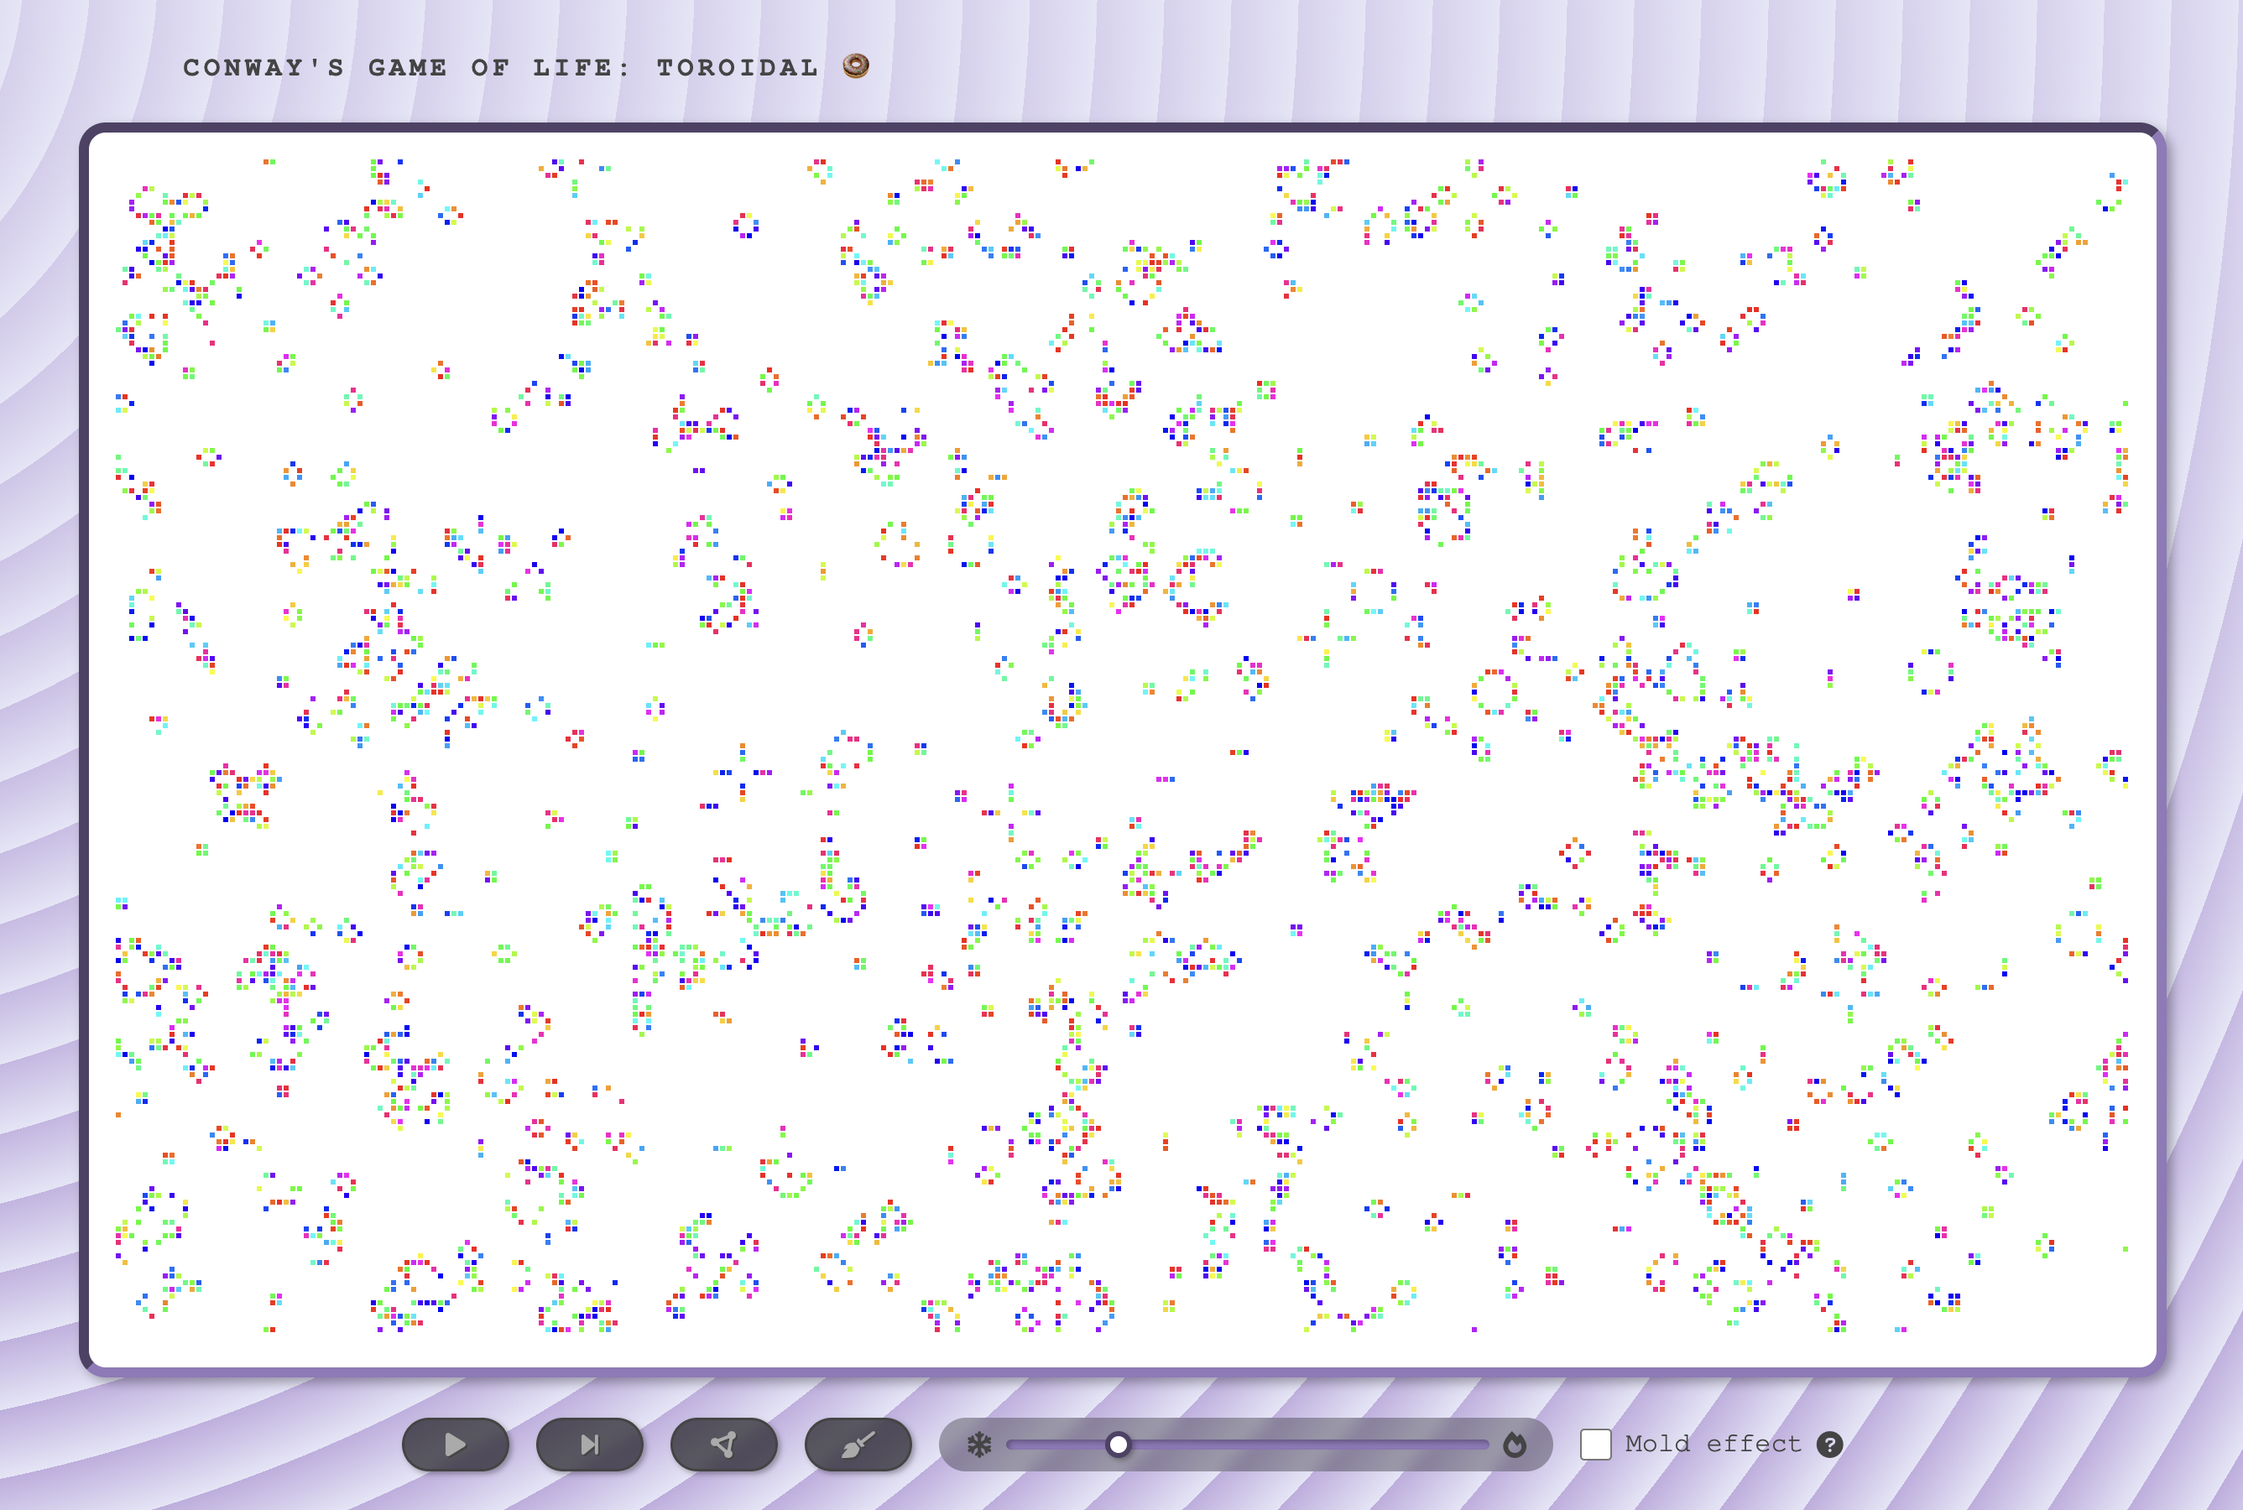
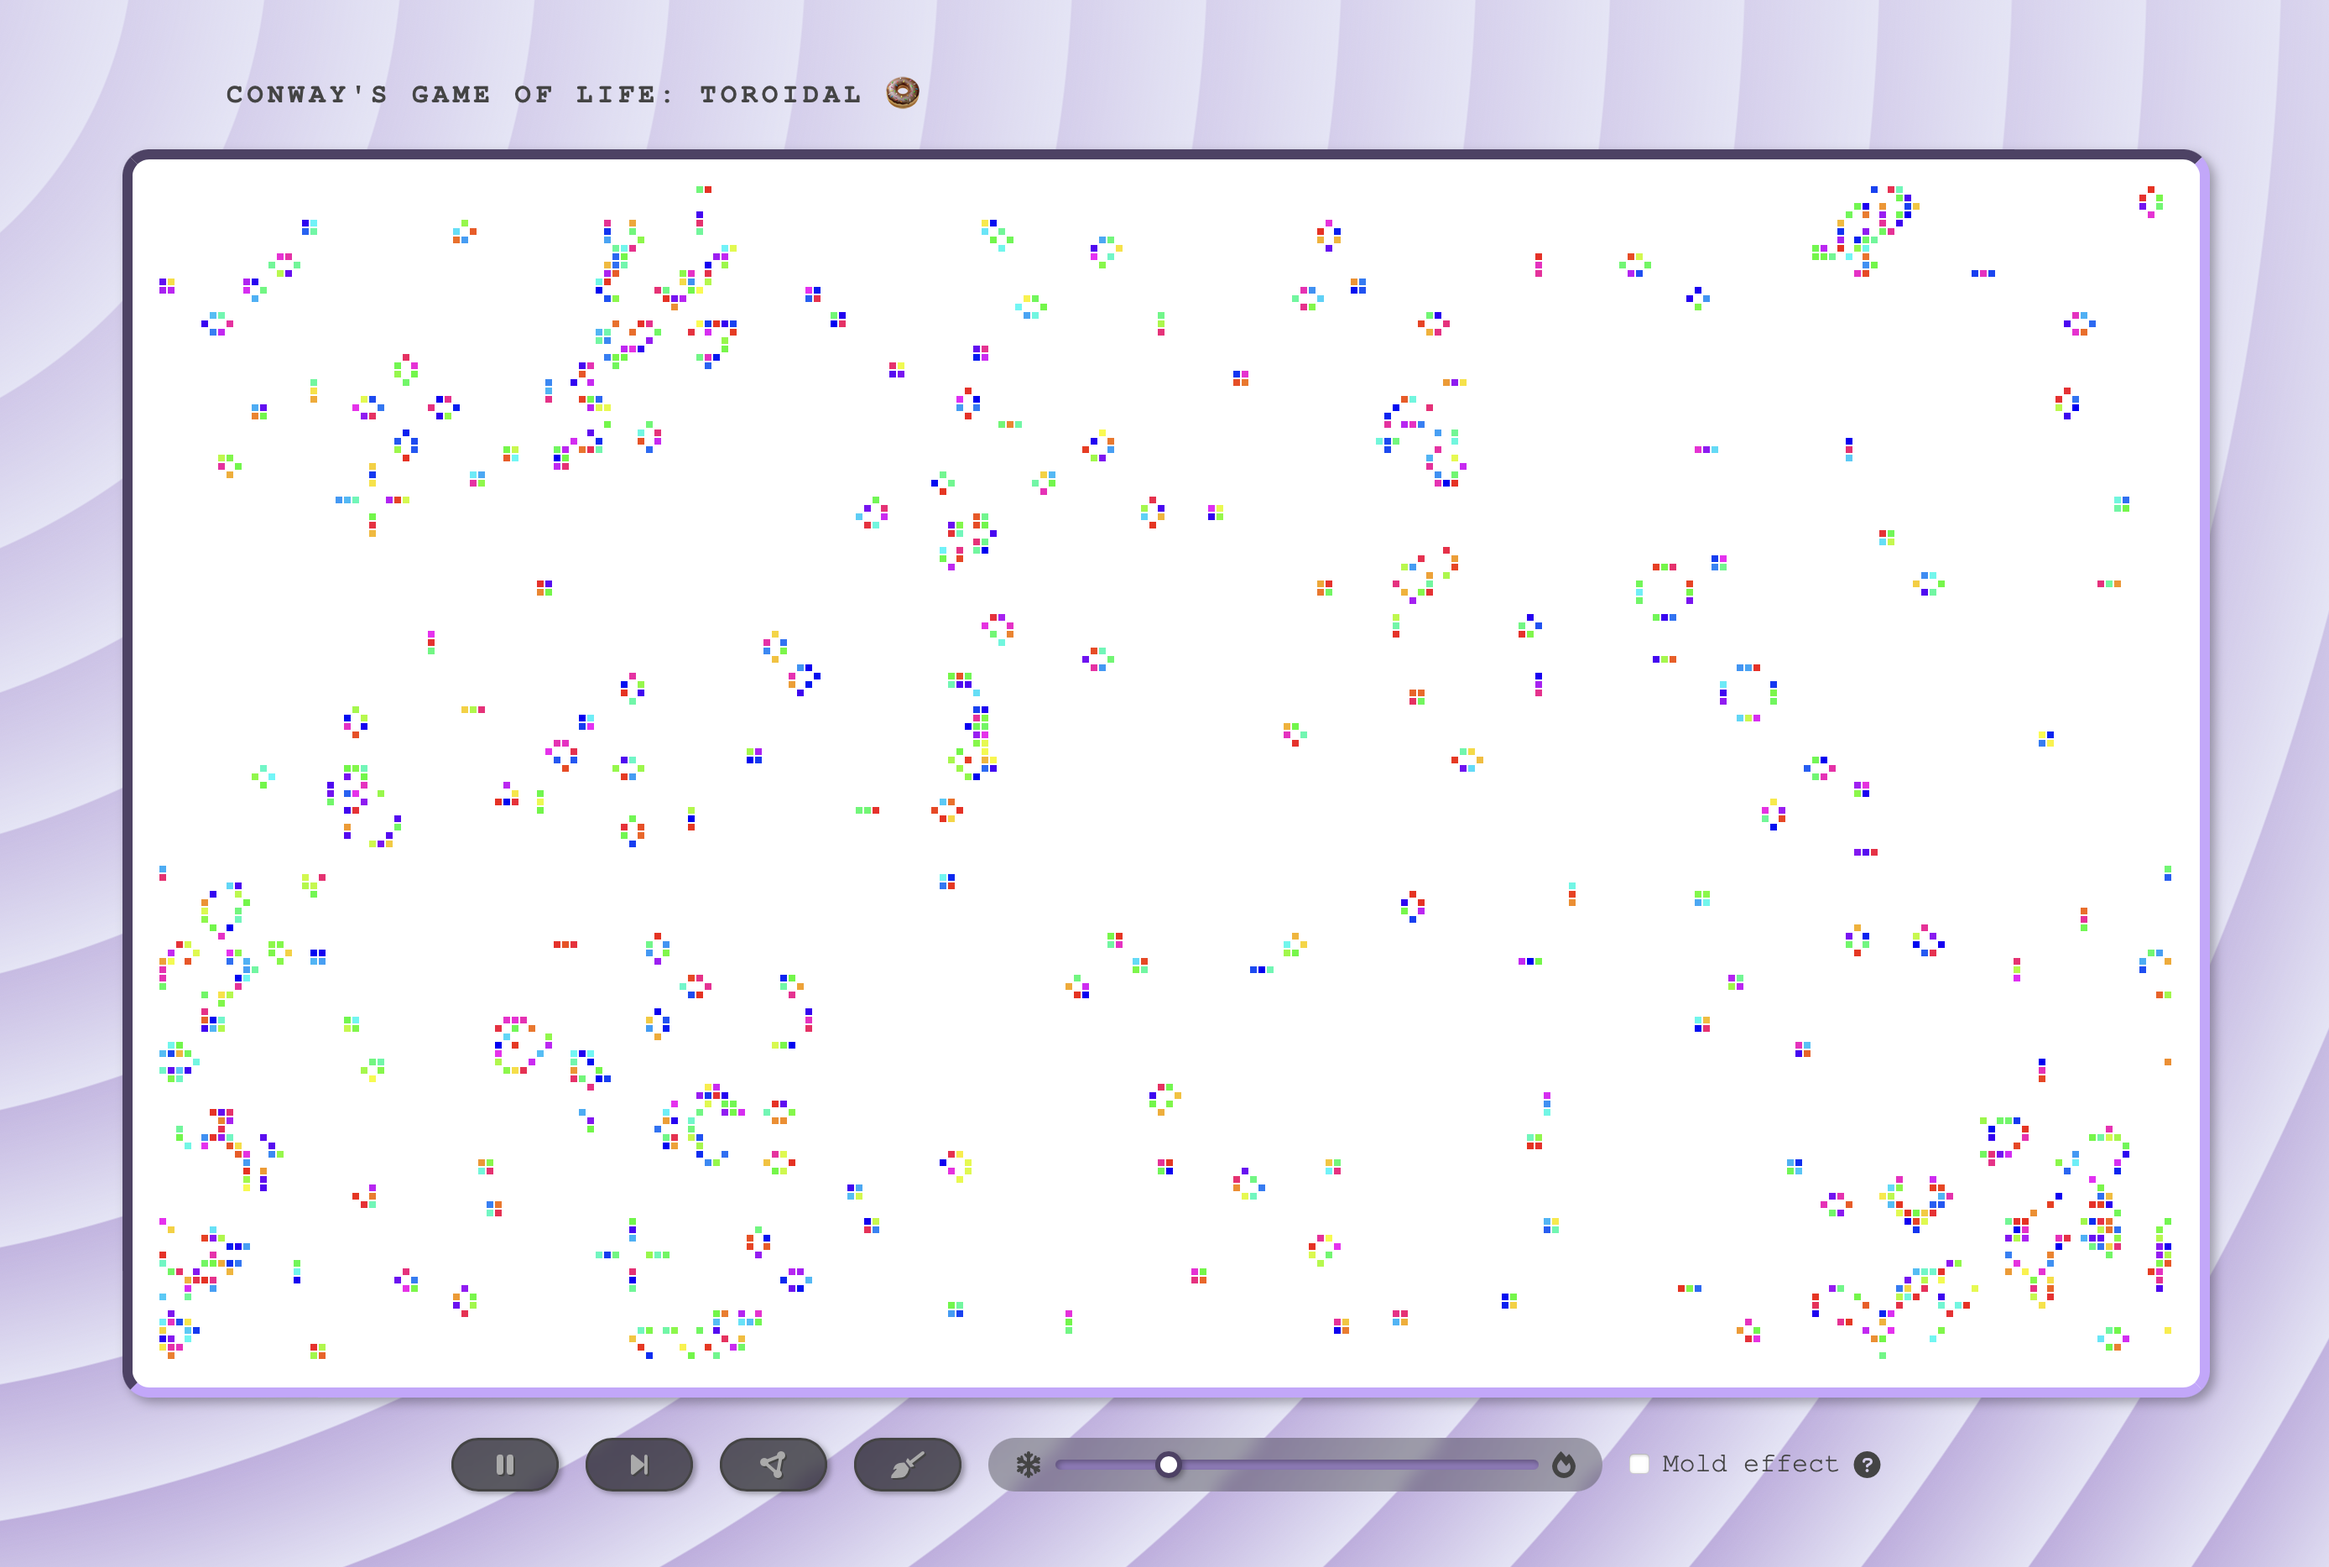
chore: bg, new demo

diff --git a/css/main.css b/css/main.css
@@ -22,7 +22,7 @@
 body {
 	align-items: center;
 	background-color: #e5e5f7;
-	background-image:  repeating-radial-gradient( circle at 0 0, transparent 0, #e5e5f7 40px ), repeating-linear-gradient( #bfabdf55, #bfabdf );
+	background-image:  repeating-radial-gradient( circle at 0 0, transparent 0, #e5e5f7 80px ), repeating-linear-gradient( #bfabdf55, #bfabdf );
 	display: flex;
 	height: 100vh;
 	justify-content: center;

diff --git a/src/gol.js b/src/gol.js
@@ -1,4 +1,4 @@
-const edge = 3;
+const edge = 5;
 const width = 1200;
 const height = 700;
 const rows = Math.floor(height / edge);
